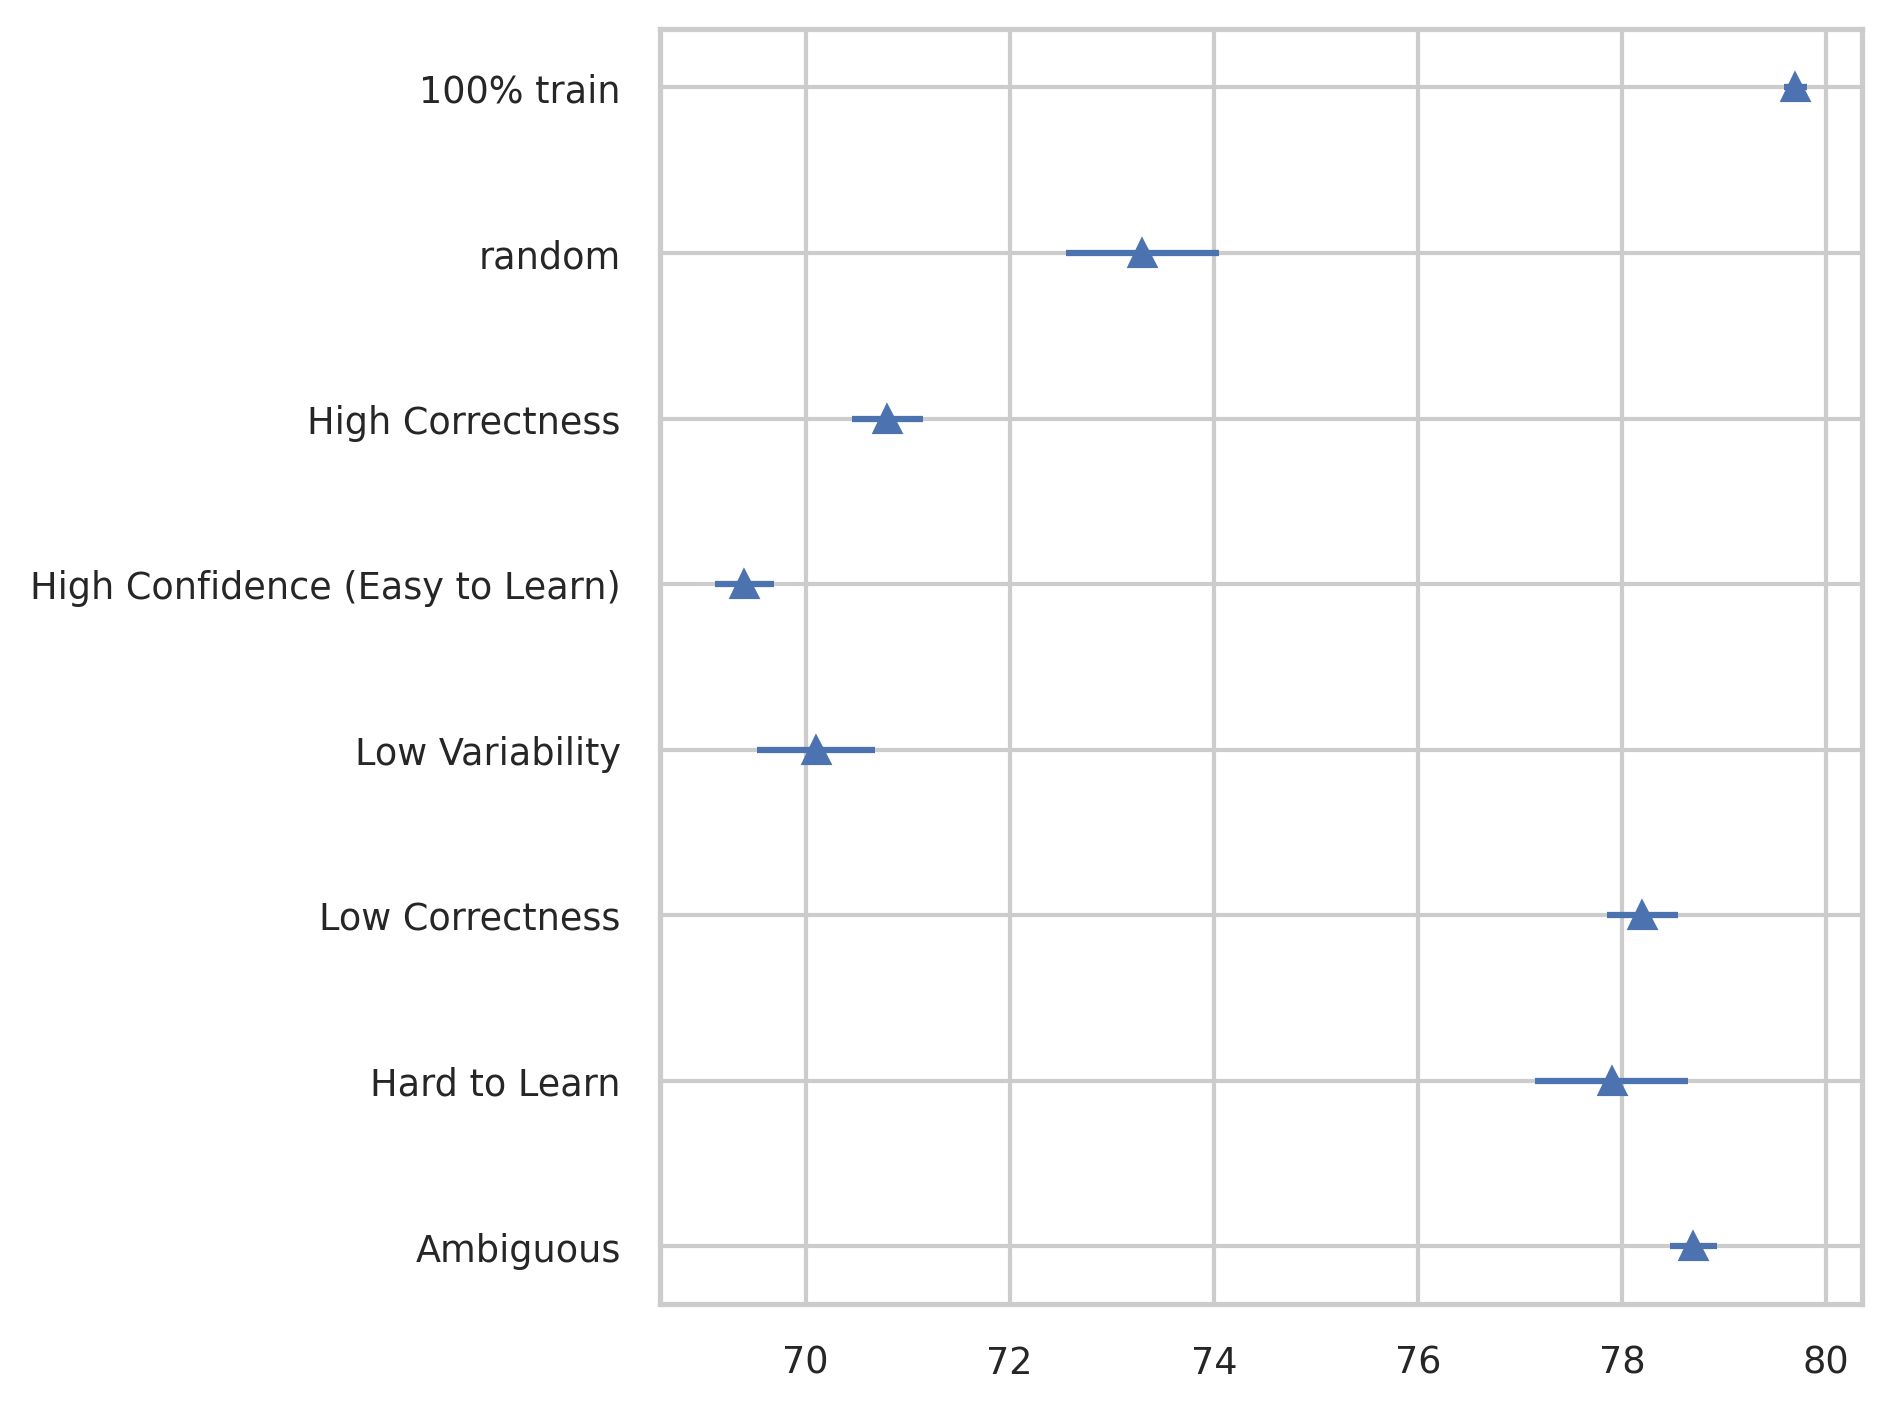
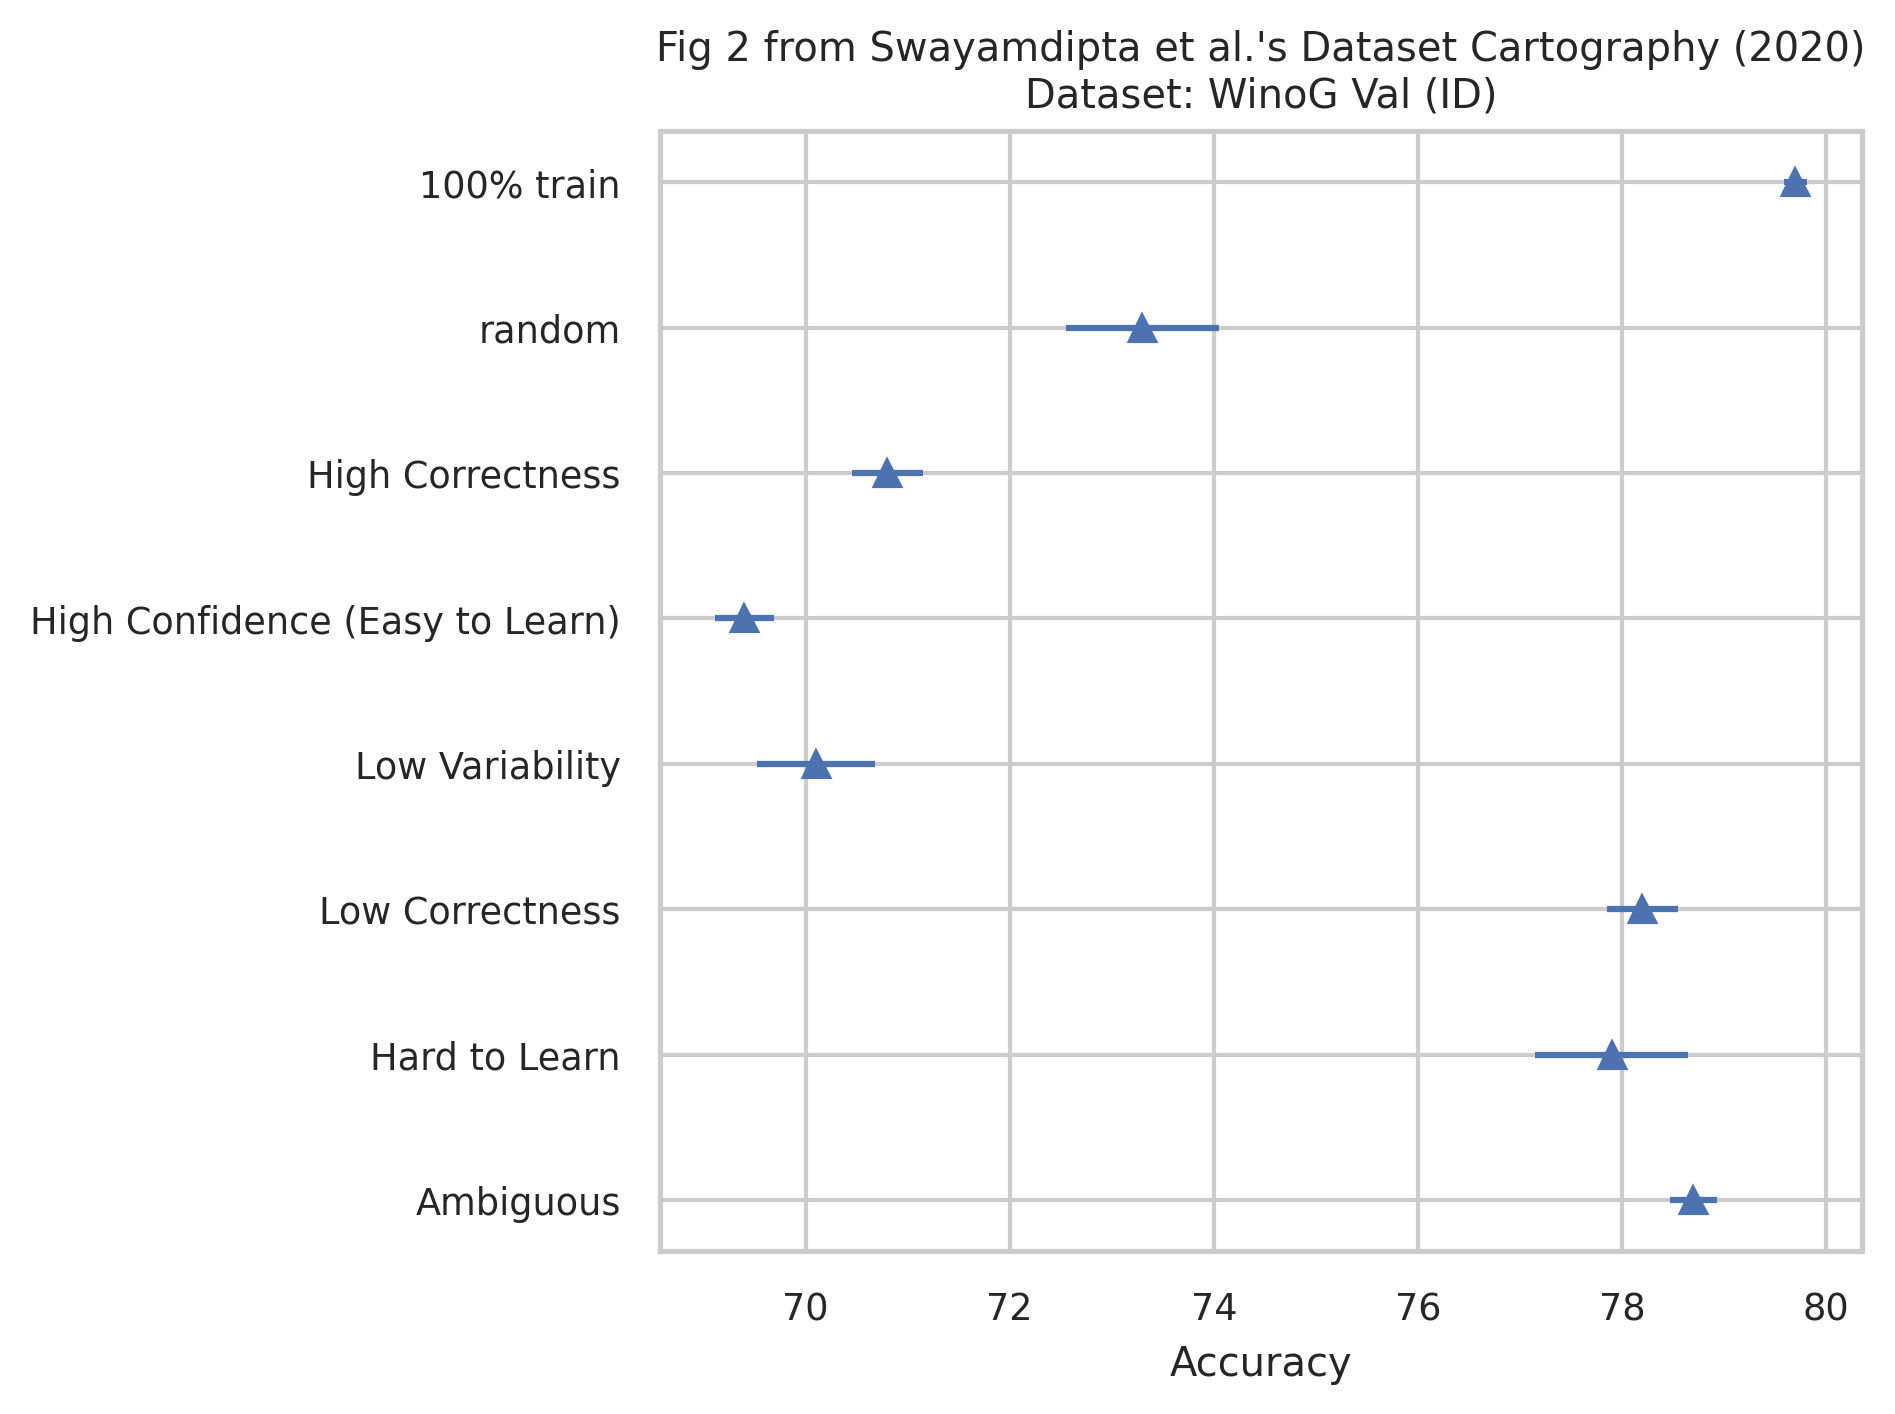
Plotted Dataset Cartography

diff --git a/papers/dataset_cartography_swayamdipta_2020/dataset_cartography_swayamdipta_2020.py b/papers/dataset_cartography_swayamdipta_2020/dataset_cartography_swayamdipta_2020.py
@@ -23,35 +23,50 @@ table_2_rows = [
 datasets = ["WinoG Val (ID)", "WSC (OOD)"]
 statistics = ["Mean", "Std Dev", "Num Samples"]
 
-table_2_cols = pd.MultiIndex.from_product([datasets, statistics], names=["first", "second"])
+table_2_cols = pd.MultiIndex.from_product(
+    [datasets, statistics], names=["first", "second"]
+)
 
 
-table_2_data = np.array([
-    [79.7, 0.2, 3, 86.0, 0.1, 3],
-    [73.3, 1.3, 3, 85.6, 0.4, 3],
-    [70.8, 0.6, 3, 84.1, 0.4, 3],
-    [69.4, 0.5, 3, 83.9, 0.5, 3],
-    [70.1, 1.0, 3, 83.7, 1.4, 3],
-    [78.2, 0.6, 3, 86.3, 0.6, 3],
-    [77.9, 1.3, 3, 87.2, 0.7, 3],
-    [78.7, 0.4, 3, 87.6, 0.6, 3],
-])
+table_2_data = np.array(
+    [
+        [79.7, 0.2, 3, 86.0, 0.1, 3],
+        [73.3, 1.3, 3, 85.6, 0.4, 3],
+        [70.8, 0.6, 3, 84.1, 0.4, 3],
+        [69.4, 0.5, 3, 83.9, 0.5, 3],
+        [70.1, 1.0, 3, 83.7, 1.4, 3],
+        [78.2, 0.6, 3, 86.3, 0.6, 3],
+        [77.9, 1.3, 3, 87.2, 0.7, 3],
+        [78.7, 0.4, 3, 87.6, 0.6, 3],
+    ]
+)
 
 table_2_df = pd.DataFrame(table_2_data)
 table_2_df.index = table_2_rows
 table_2_df.columns = table_2_cols
 for dataset in datasets:
+    table_2_df[dataset, "Std Err"] = table_2_df[dataset]["Std Dev"] / np.sqrt(
+        table_2_df[dataset]["Num Samples"]
+    )
+
+
+for dataset in datasets:
     table_2_dataset_df = table_2_df[dataset]
     plt.close()
     y = np.arange(len(table_2_dataset_df))[::-1]
     x = table_2_dataset_df["Mean"]
-    xerr = table_2_dataset_df["Std Dev"] / np.sqrt(table_2_dataset_df["Num Samples"])
-    plt.errorbar(x, y, xerr=xerr, linestyle='None', marker='^')
+    xerr = table_2_dataset_df["Std Err"]
+    plt.errorbar(x, y, xerr=xerr, linestyle="None", marker="^")
     # Add y tick labels based on table_2_dataset_df.index
     plt.yticks(y, table_2_dataset_df.index.values)
+    plt.xlabel("Accuracy")
+    plt.title(
+        "Fig 2 from Swayamdipta et al.'s Dataset Cartography (2020)\nDataset: "
+        + dataset
+    )
     save_plot_with_multiple_extensions(
         plot_dir=paper_dir,
-        plot_title=f"table_2_dataset={dataset.lower().replace(' ', '_')}"
+        plot_title=f"table_2_dataset={dataset.lower().replace(' ', '_')}",
     )
     plt.show()
 
